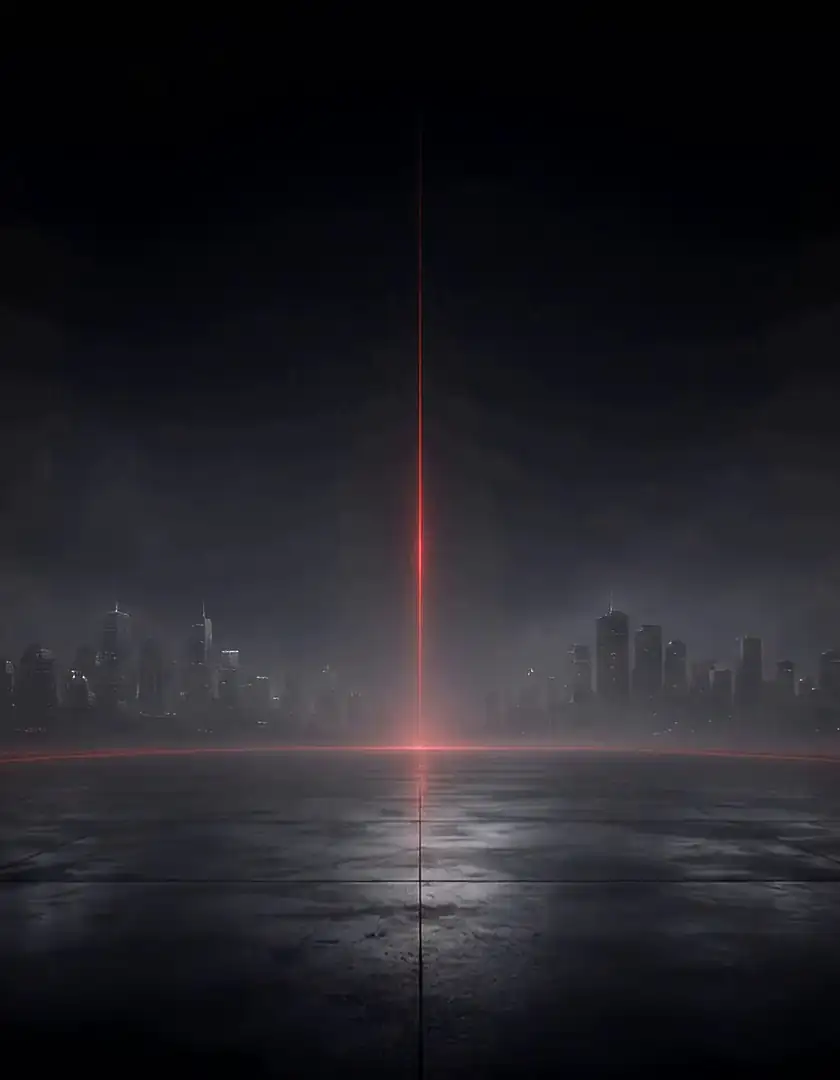
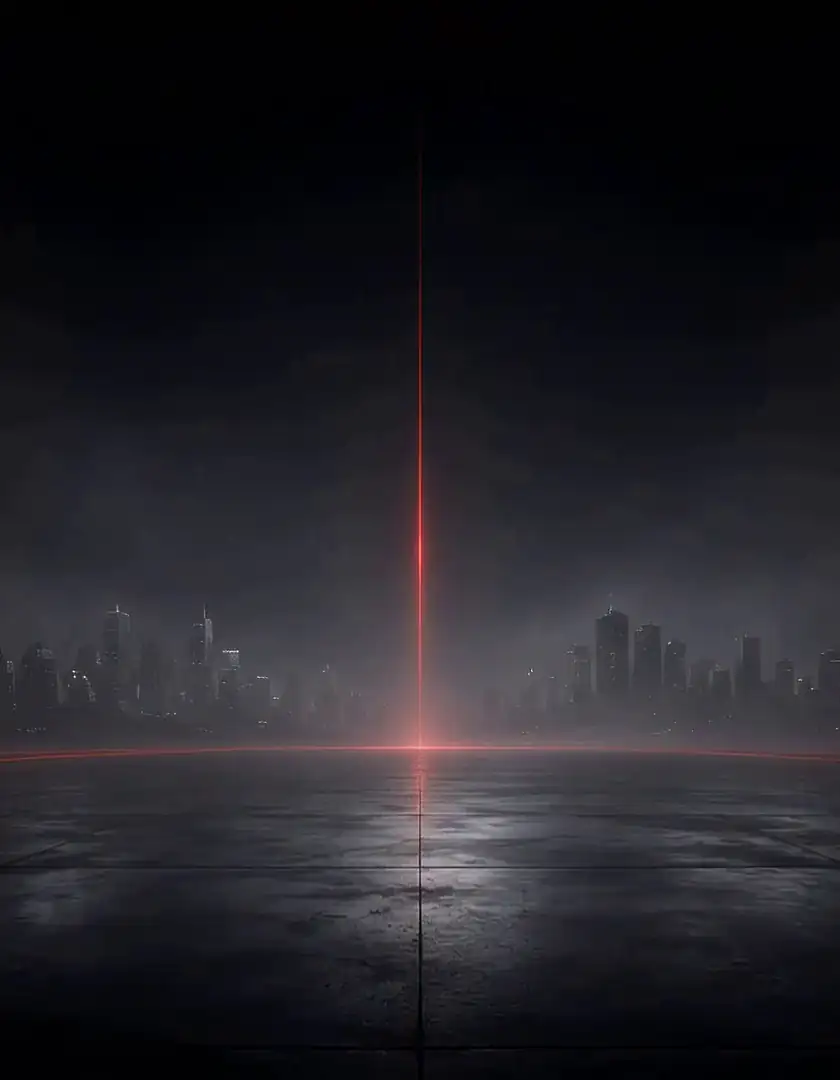
Homepage film: sample through the last frame, no jump at the end of the scroll
Sampling stopped at 8.0 s and jumped to the final frame (a 2 s gap with a
spark at 8.3 s), so the last stretch of the scroll crossfaded once across it.

Changed region(s): [[0.4024, 0.7333, 0.65, 0.9167], [0.8048, 0.7639, 1.0, 0.825], [0.0, 0.7944, 0.0929, 0.825]]

diff --git a/_research/hero/frames.py b/_research/hero/frames.py
@@ -4,7 +4,7 @@
 #
 # Source: the TensorPix upscale of the client's clip, 1920x1080 at 60 fps (same timing as the 720p original).
 # Timing measured from the pixels (see progress.md): warp 0-2.7 s, slow-down to 4.9 s, beam ignites 4.9-5.6 s
-# at x 50% / y 69%, floor line 5.6-6.8 s, chevrons 6.8-7.7 s, then almost no change until 10 s.
+# at x 50% / y 69%, floor line 5.6-6.8 s, chevrons 6.8-7.7 s, then slow drift (and a spark at 8.3 s) until 10 s.
 #
 # Adaptive sampling: walk the 60 fps source and keep a frame whenever the picture has changed by THRESHOLD
 # (mean absolute RGB difference, accumulated) since the last kept one, or MAXGAP source frames have passed.
@@ -22,7 +22,7 @@ OUT = "site/static/img/home/seq"
 DATA = "site/data/film.mjs"
 FF = imageio_ffmpeg.get_ffmpeg_exe()
 W, H, FPS = 1920, 1080, 60
-END, CALM = 480, 294          # 8.0 s: last sampled frame before the true last one; 4.9 s: the calm half starts
+CALM = 294                    # 4.9 s: the calm half starts
 #       change threshold, max gap before / after CALM, crop box (None = full frame), quality before / after CALM
 SETS = {"d": (10, (4, 6), None, 54, 64),
         "m": (13, (5, 7), (540, 0, 1380, 1080), 52, 60)}   # phone: centre 840x1080, covers portrait up to 0.78
@@ -39,14 +39,14 @@ def frames(w, h):
 
 def pick(diff, threshold, maxgap):
     keep, acc = [0], 0.0
-    for i in range(1, END + 1):
+    for i in range(1, len(diff) + 1):  # through the true last frame: no jump at the end of the scroll
         acc += diff[i - 1]
         if acc >= threshold or i - keep[-1] >= maxgap[i >= CALM]:
             keep.append(i)
             acc = 0.0
-    if keep[-1] != END:
-        keep.append(END)
-    return keep + [len(diff)]  # + the true last frame
+    if keep[-1] != len(diff):
+        keep.append(len(diff))
+    return keep
 
 
 small = np.stack([f.astype(np.float32) for f in frames(480, 270)])

diff --git a/progress.md b/progress.md
@@ -128,6 +128,9 @@ Cause: frames were 3 source frames apart and the canvas crossfaded them, includi
 - [x] Headline finishes fading as it parts (no half-faded text over the trails); on phones the lead and buttons move
       with the lower line instead of being overlapped by it
 - [x] 3 viewports x 14 positions, 6/6 interaction checks, no console errors
+- [x] Fix (29 Sep): the last stretch jittered because sampling stopped at 8.0 s and jumped to the final frame
+      (2 s gap, with a spark at 8.3 s). Sampling now runs through the last frame: desktop 178 frames (9.2 MB),
+      phone 143 (3.5 MB)
 
 ## Flags for the client (carried over + new)
 - Lifestyle photos (`CPx_PRO_RIQUADRO_*`) show VMOTO CPx branding, not RX. The beta uses them; so does this build. Replace with RX shoots.
